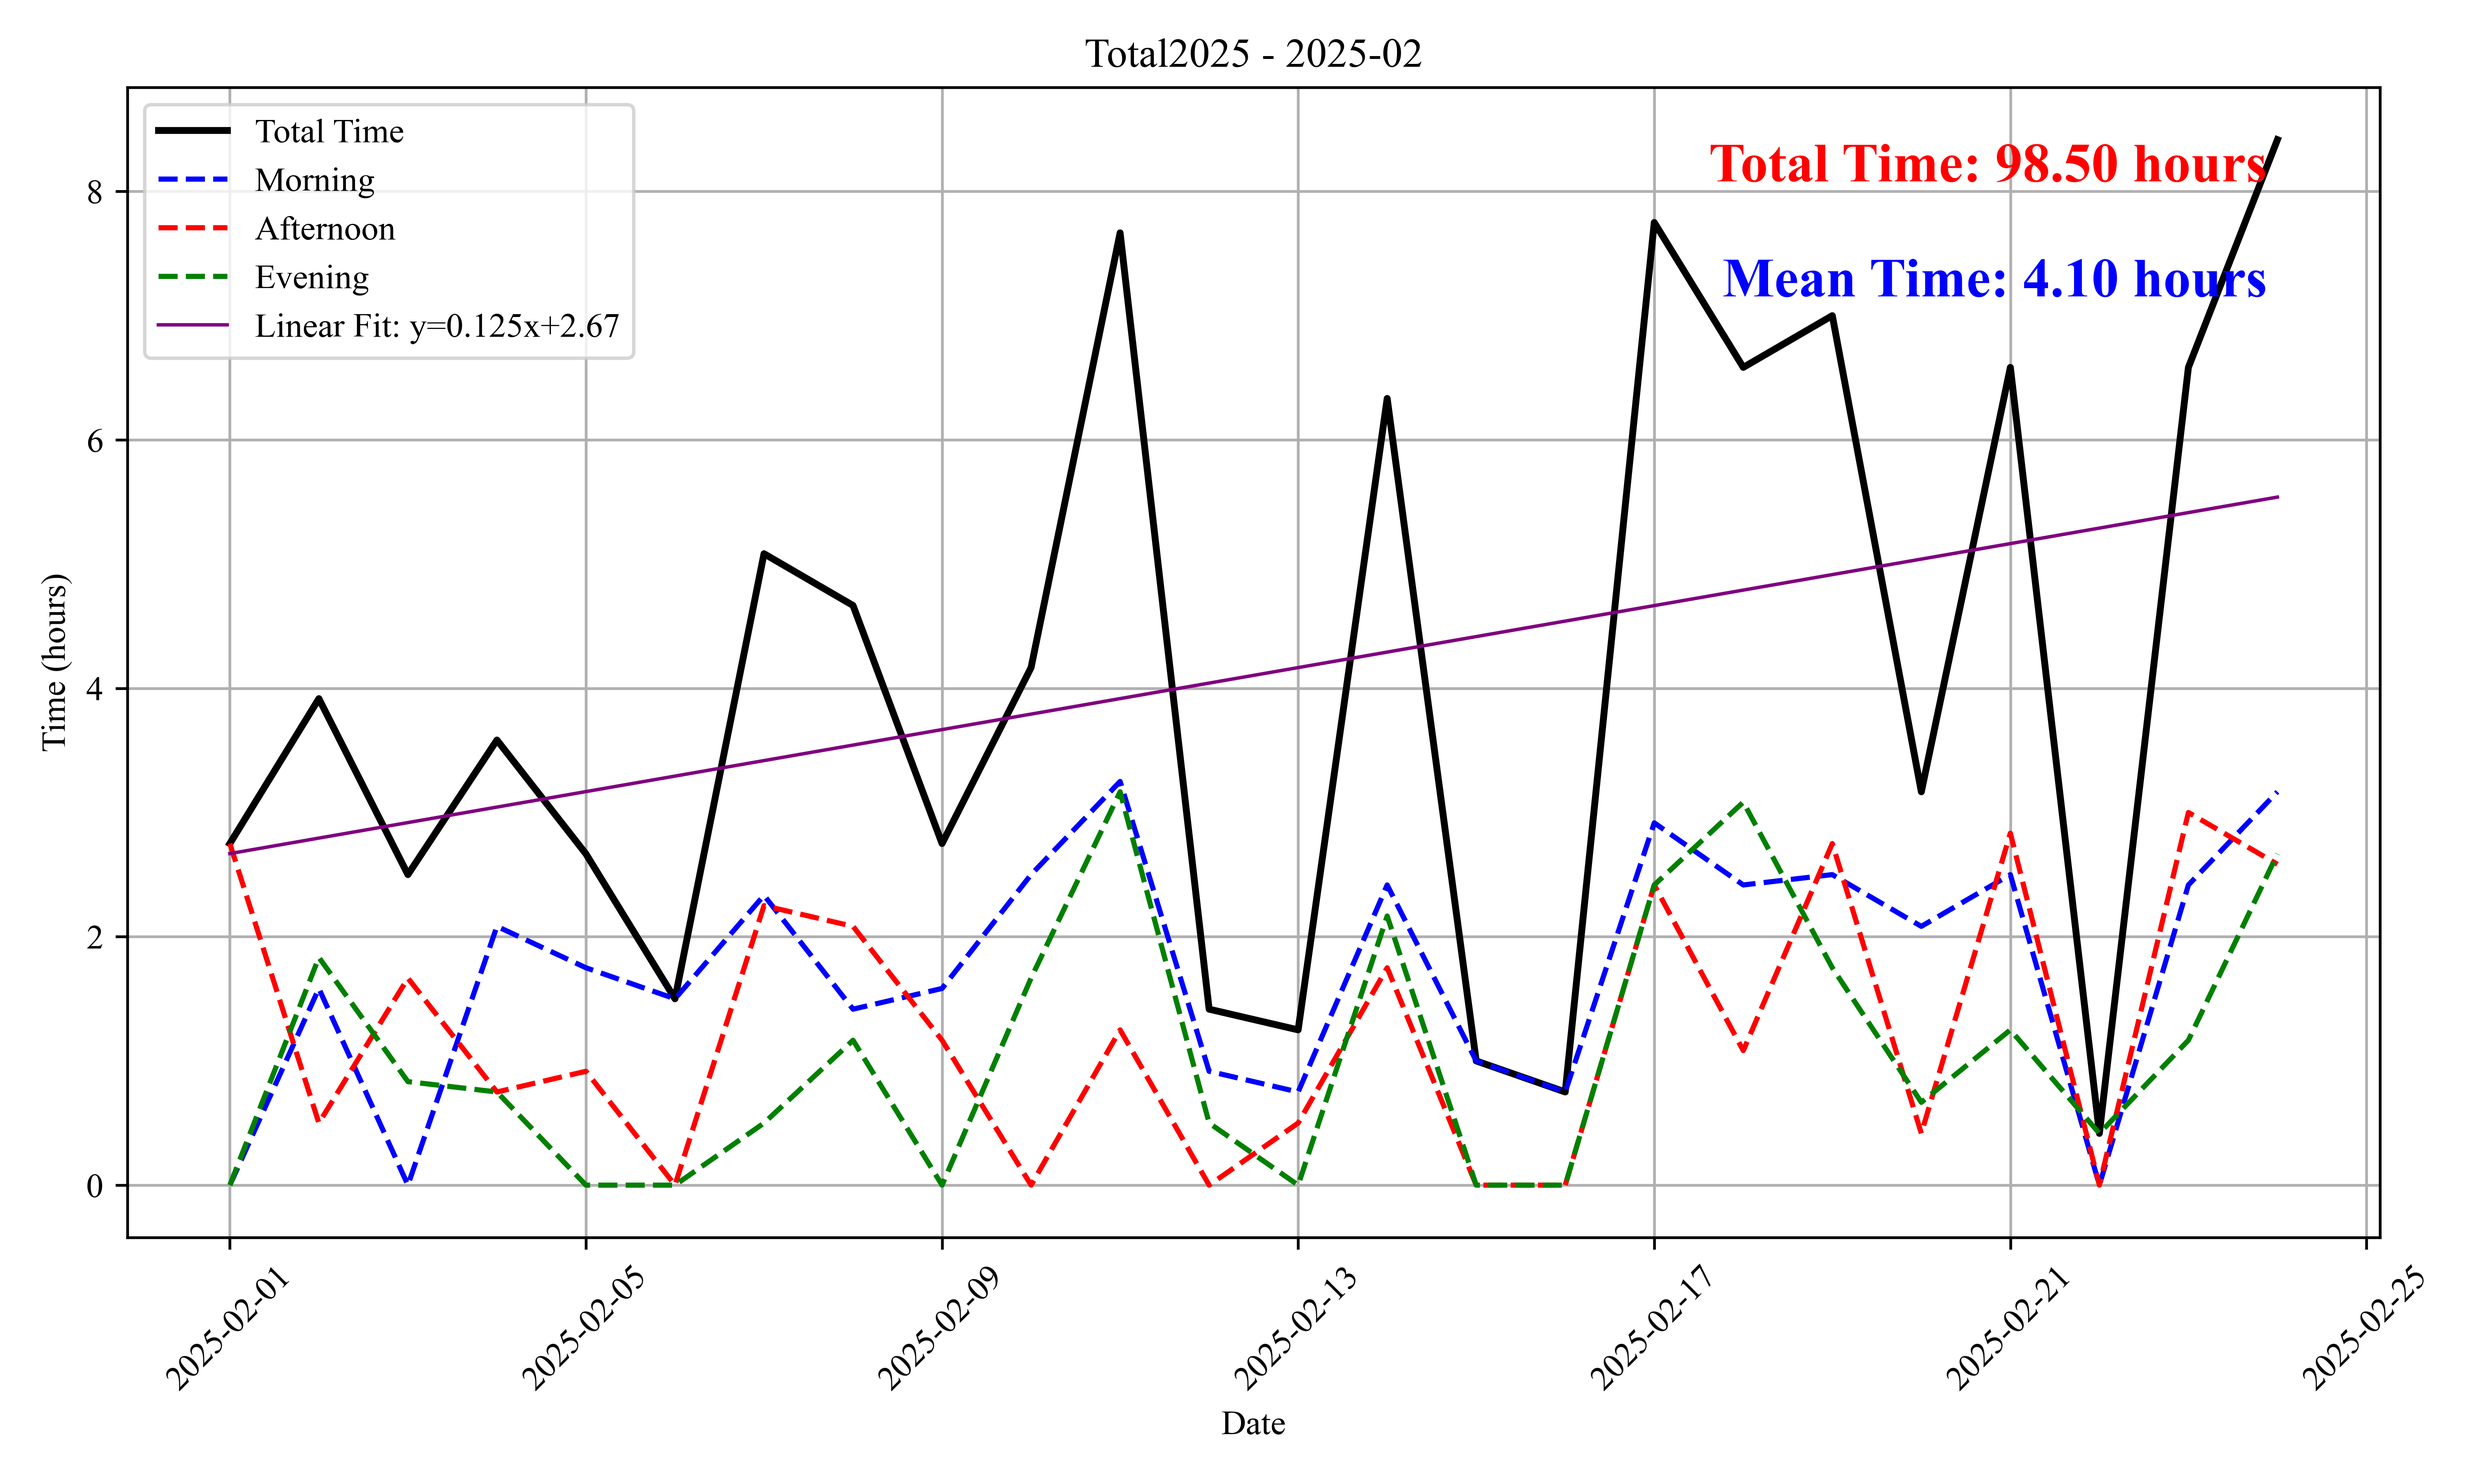
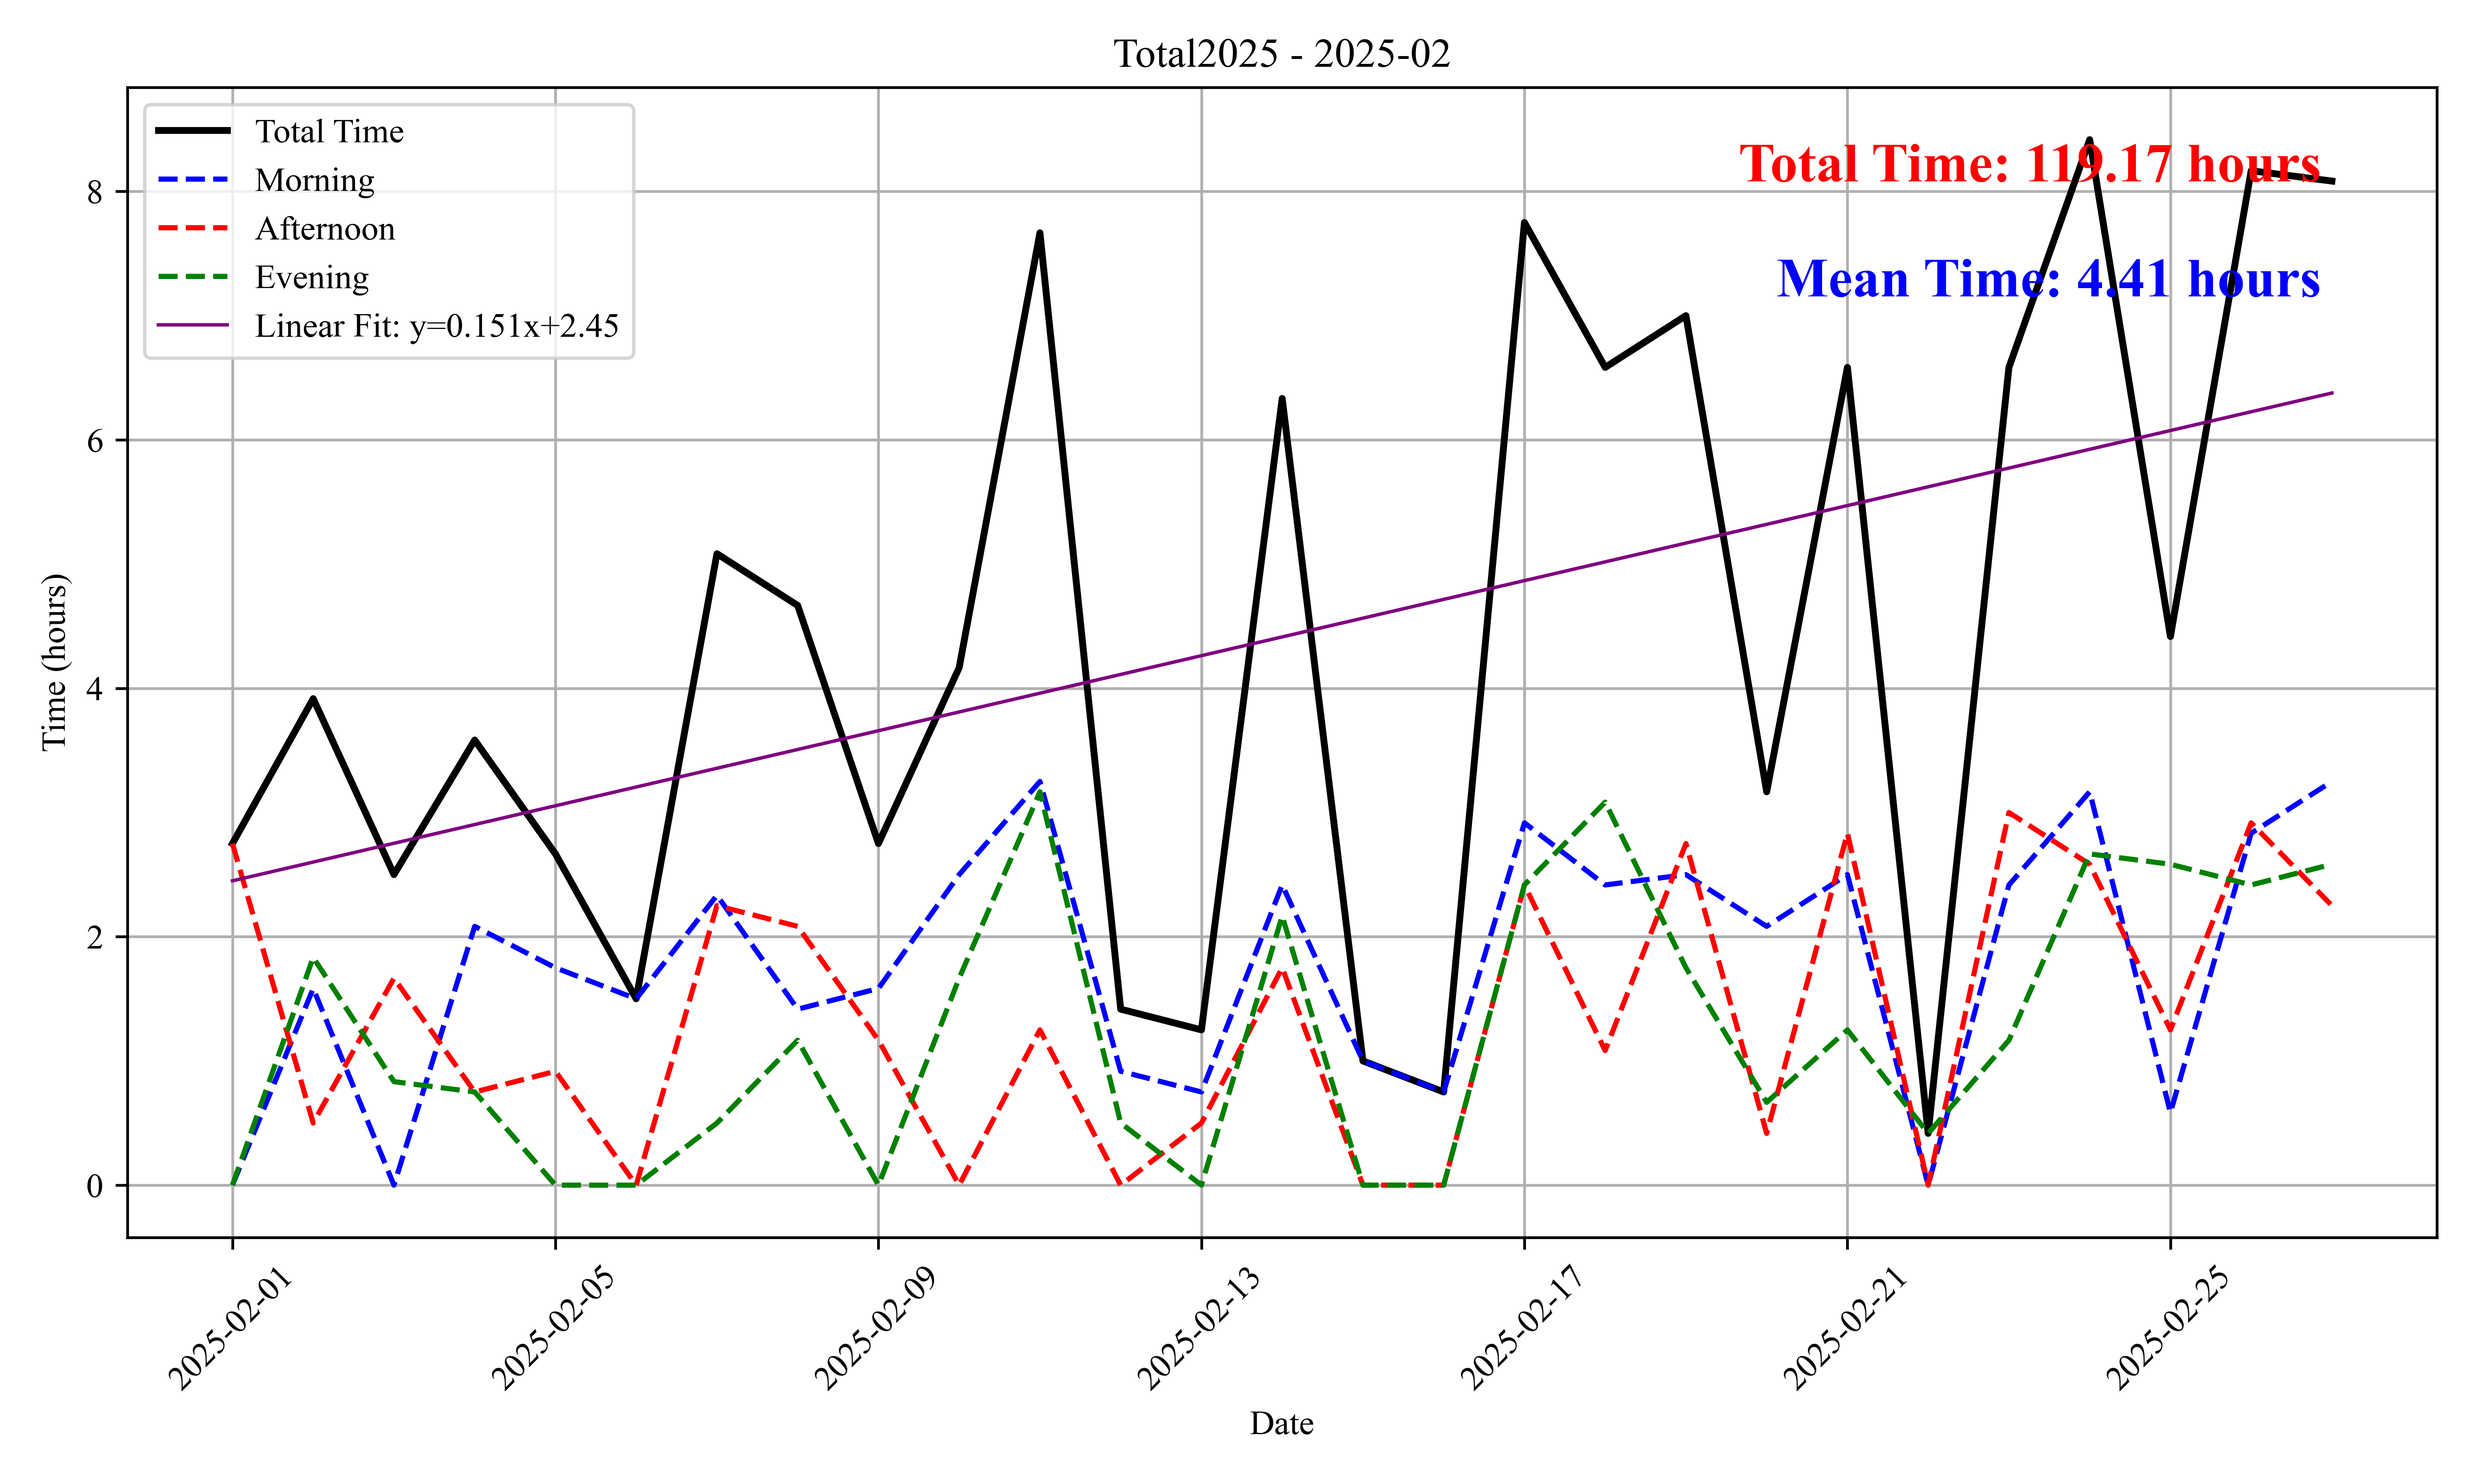
更新2.27

diff --git a/data/学习时长.md b/data/学习时长.md
@@ -181,6 +181,9 @@
 | 2.22 | 17:35-18:00 | |
 | 2.23 | 10:20-11:40, 14:10-16:20, 17:45-18:55 | |
 | 2.24 | 8:30-11:40, 14:00-15:35, 17:20-20:10 | |
+| 2.25 | 8:55-9:30, 18:00-20:35 | |
+| 2.26 | 8:45-11:35, 13:55-15:45, 17:40-20:05 | |
+| 2.27 | 10:10-11:40, 14:30-16:15, 17:50-20:25 | |
 
 </div>
 
@@ -202,6 +205,7 @@
 | 2.20 | 9:30-11:15 | |
 | 2.21 | 9:00-10:30 | |
 | 2.23 | 9:15-10:20 | |
+| 2.27 | 8:15-10:00 | |
 
 </div>
 
@@ -239,6 +243,9 @@
 | 2.21 | 10:40-11:40 | |
 | 2.23 | 16:20-17:10 | |
 | 2.24 | 16:00-16:50 | |
+| 2.25 | 16:00-17:15 | |
+| 2.26 | 16:00-17:05 | |
+| 2.27 | 16:35-17:05 | |
 
 
 </div>

diff --git a/data/规划.md b/data/规划.md
@@ -119,6 +119,7 @@
 - 英语：背单词正常进行，阅读有空做一点。
 - 非考研：机器学习（计算广告、供需预测章节）。
 
+完成情况：
 √ 12.1完成高数
 √ 12.8完成线性代数
 √ 12.12完成概率论
